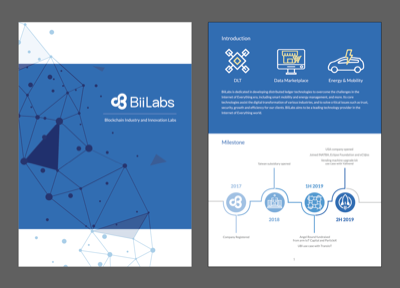
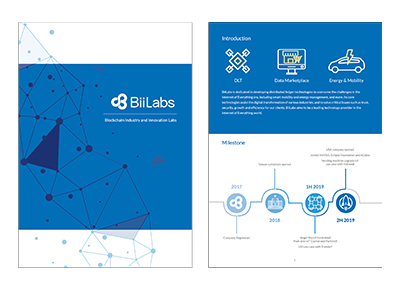
Change company cataglogue image

diff --git a/docs/index.html b/docs/index.html
@@ -233,7 +233,7 @@
 		<div class="container">
 			<div class="row" >
 				<div class="col-md-4 col-sm-12 text-center">
-					<img src="images/product-catalog.png" alt="Product Catalog" class="img-shadow">
+					<img class="image" src="images/product-catalog.png" alt="Product Catalog">
 				</div>
 
 				<div class="col-md-8 col-sm-12 section-catalog-content">

diff --git a/docs/css/custom.css b/docs/css/custom.css
@@ -1,5 +1,5 @@
-.img-shadow {
-  box-shadow: 0px 2px 10px -1px rgba(0, 0, 0, 0.19);
+.image {
+  max-width: 100%;
 }
 
 .section-catalog {
